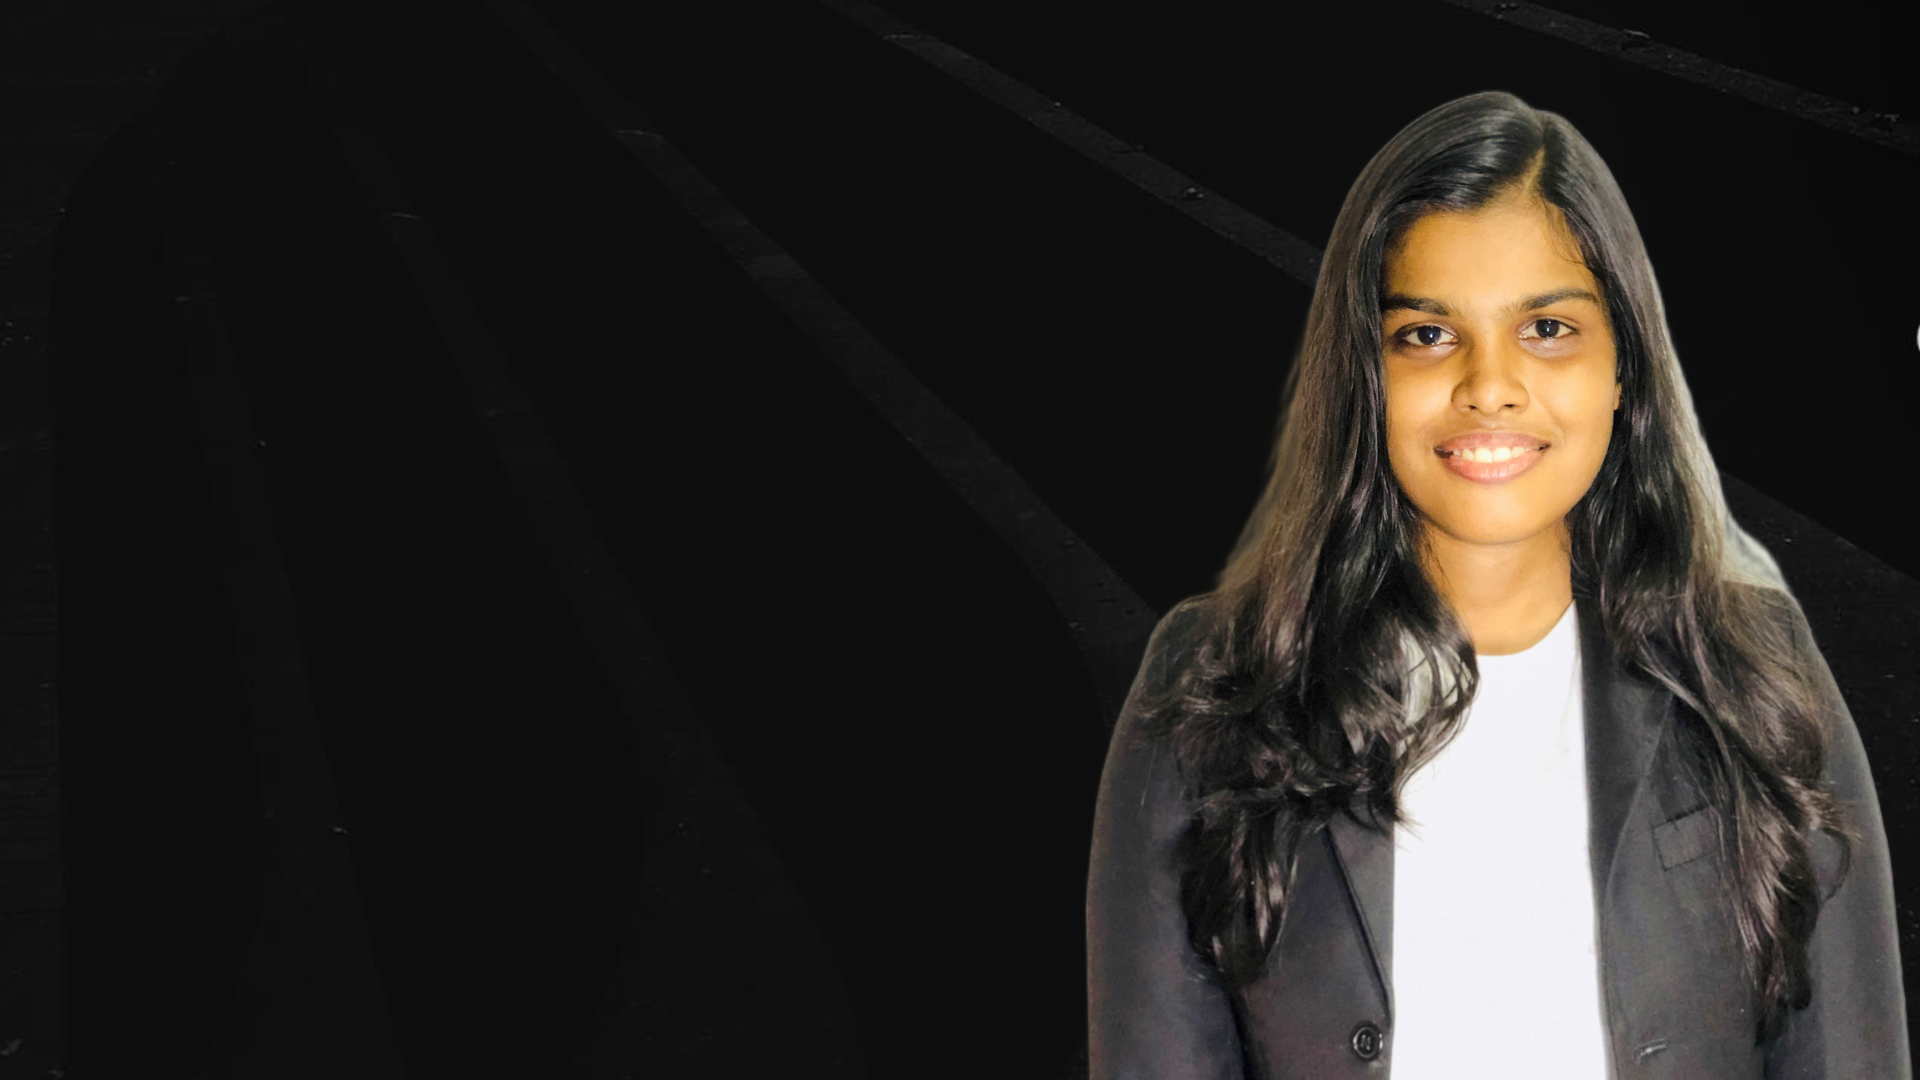
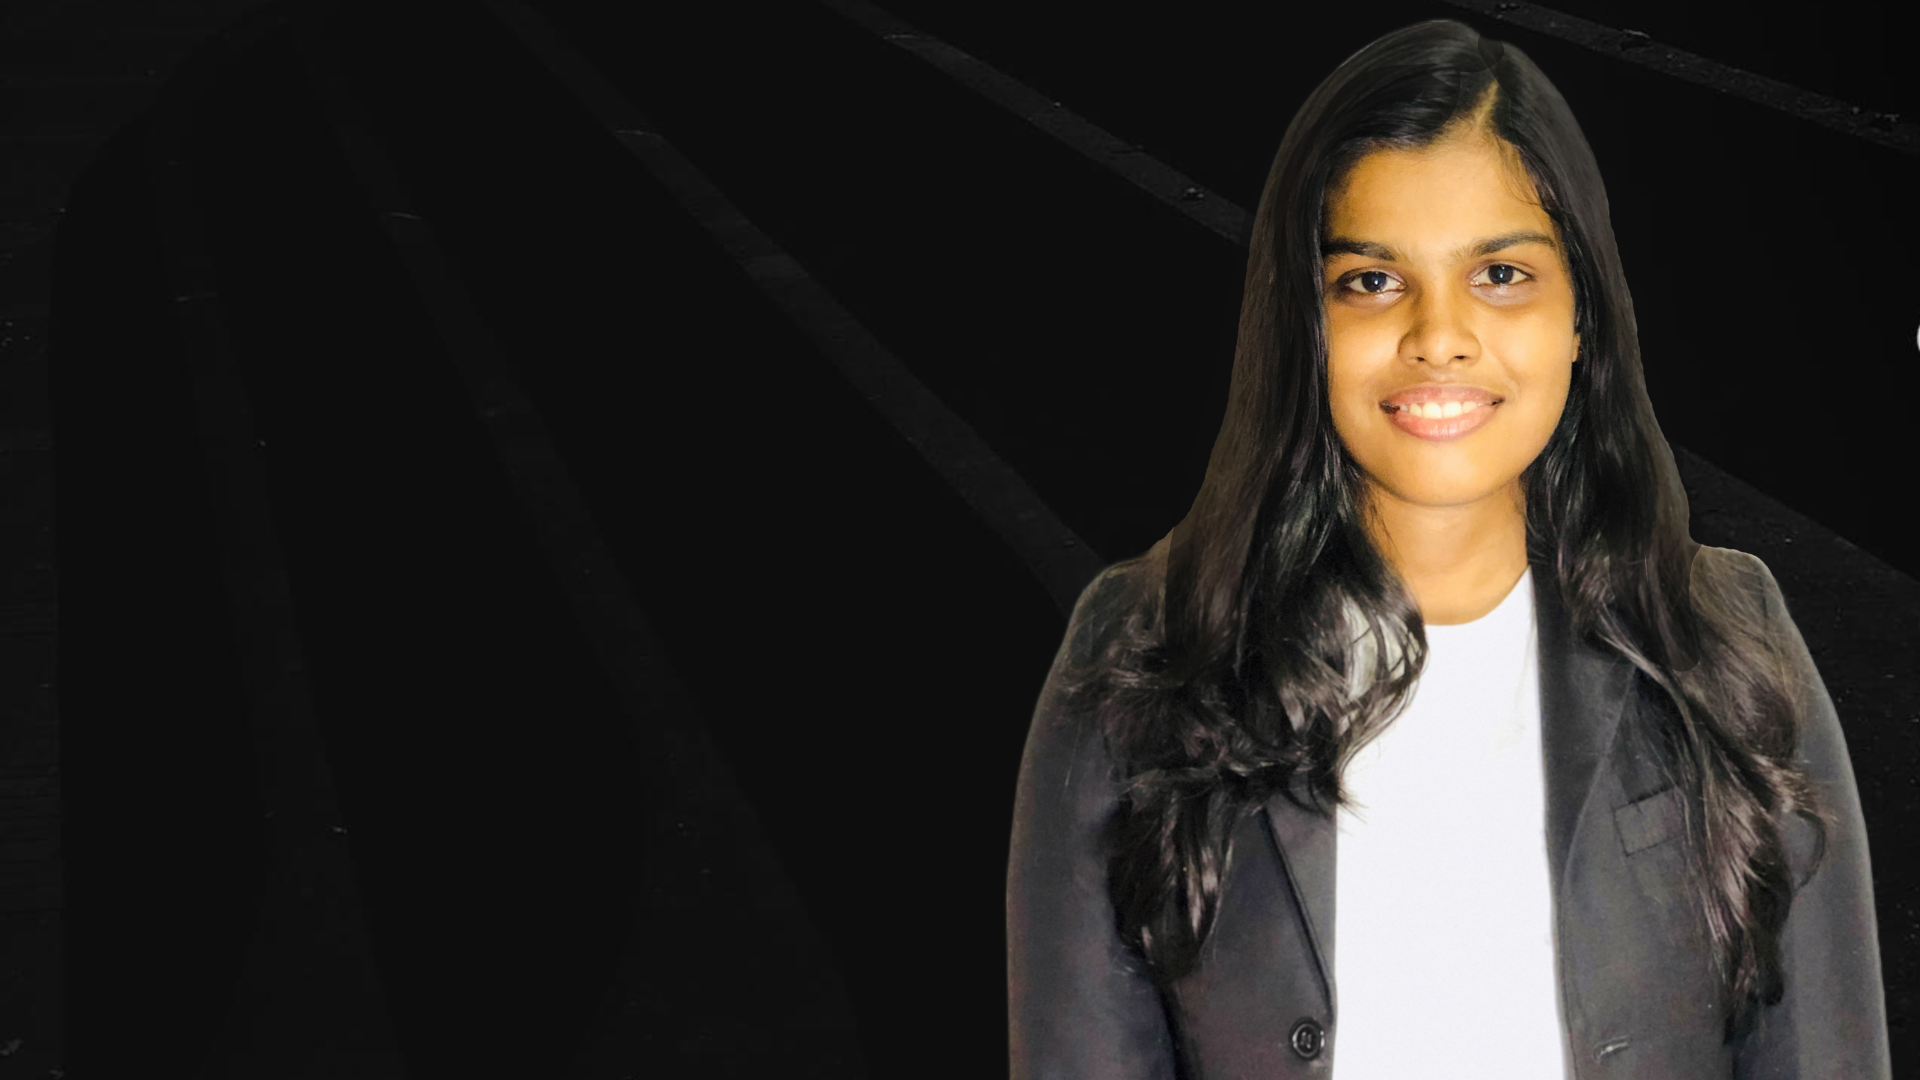
full_compete_commit

Changed region(s): [[0.5, 0.0, 1.0, 1.0]]

diff --git a/index.html b/index.html
@@ -89,7 +89,7 @@
 
         <div class="row">
           <div class="col-lg-4" data-aos="fade-right">
-            <img src="assets/img/1702211296126.JPG" class="img-fluid" alt="">
+            <img src="assets/img/Untitled design (5).png" class="img-fluid" alt="">
           </div>
           <div class="col-lg-8 pt-4 pt-lg-0 content" data-aos="fade-left"><br><br><br>
             <h3>Chartered Accountant | Auditor</h3><br>
@@ -307,8 +307,8 @@
                 <h4>Call:</h4>
                 <p> 761037727</p>
               </div>
-
-              <iframe src="https://www.google.com/maps/embed?pb=!1m14!1m8!1m3!1d12097.433213460943!2d-74.0062269!3d40.7101282!3m2!1i1024!2i768!4f13.1!3m3!1m2!1s0x0%3A0xb89d1fe6bc499443!2sDowntown+Conference+Center!5e0!3m2!1smk!2sbg!4v1539943755621" frameborder="0" style="border:0; width: 100%; height: 290px;" allowfullscreen></iframe>
+              <iframe src="https://www.google.com/maps/embed?pb=!1m18!1m12!1m3!1d31729.007501056658!2d80.03570859859187!3d6.2471305994307365!2m3!1f0!2f0!3f0!3m2!1i1024!2i768!4f13.1!3m3!1m2!1s0x3ae1822ba5da53a1%3A0xe1ca72d5d96668ec!2sAmbalangoda!5e0!3m2!1sen!2slk!4v1703436473695!5m2!1sen!2slk" width="600" height="450" style="border:0;" allowfullscreen="" loading="lazy" referrerpolicy="no-referrer-when-downgrade"></iframe>
+             
             </div>
 
           </div>
